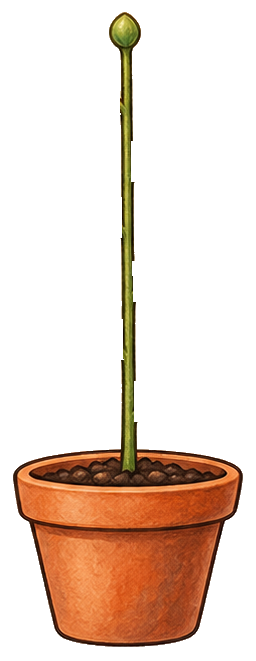
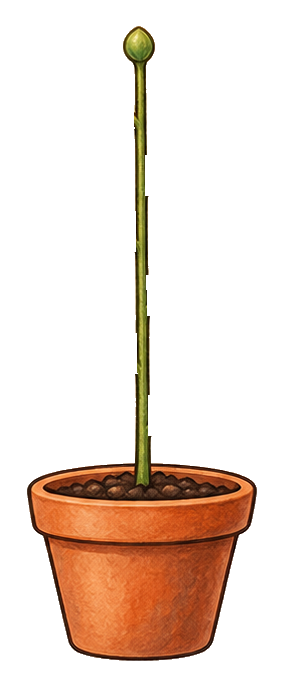
Plant: pre-rendered round borders, layered under all art
The live outline filter dilated with a square kernel (blocky fill
between leaves and stem) and its rounding pass thinned the border at
leaf tips. Instead:
- Each piece gets NAME-border.png: a smooth ~4px (on screen) cream
  border from a Euclidean distance transform, on the same padded canvas
  as its art.
- All borders render in one layer beneath all art, so at every joint
  each border tucks under the other's art and the outline merges into
  one clean die-cut shape. Both layers share motion props, so a leaf
  and its border grow together.

Changed region(s): [[0.0312, 0.0, 0.9688, 0.9985], [0.6562, 0.8775, 0.6875, 0.9077], [0.2812, 0.8472, 0.3125, 0.8775]]

diff --git a/src/components/PlantSticker/PlantSticker.jsx b/src/components/PlantSticker/PlantSticker.jsx
@@ -5,22 +5,30 @@ import discoveries from '../../data/discoveries';
 import './PlantSticker.css';
 
 // Art comes from one sticker sheet (public/plant/*.png), so every piece
-// shares a scale. All positions below are in base.png pixels.
+// shares a scale. All positions below are in base.png pixels (the original
+// cut, before padding).
 //
-// The pieces have had their own cream die-cut borders removed; one border
-// is drawn live around the whole plant instead (see the #plant-outline
-// filter), so leaves join the stem seamlessly as they grow.
-//
+// Each piece comes as a pair: NAME.png (art + its dark outline) and
+// NAME-border.png (a smooth cream die-cut border, pre-rendered ~4px on
+// screen). All borders are drawn in one layer underneath all art, so where
+// a leaf meets the stem each border tucks under the other's art and the
+// outline merges into one clean die-cut shape. Both images in a pair share
+// the same padded canvas (PADS), so they always line up.
+const PADS = {
+  base: 14, bud: 14, 'leaf-left-b': 27, 'leaf-left-a': 29, 'leaf-right-b': 27, 'leaf-right-a': 29,
+  'flower-bud': 31, 'flower-half': 26, 'flower-full': 22,
+};
+
 // The plant box adds room around base.png: on top for the flower, on the
-// sides for leaves that reach past the pot.
+// sides for leaves (and their borders) that reach past the pot.
 const BASE = { w: 256, h: 661 };
-const PAD = { top: 120, side: 34 };
-const BOX = { w: BASE.w + PAD.side * 2, h: BASE.h + PAD.top };
+const PAD = { top: 130, side: 44 };
+const BOX = { w: BASE.w + PAD.side * 2, h: BASE.h + PAD.top + 16 };
 const SCALE = 0.34; // rendered px per base.png px
 
 // Bud centers along the stem, bottom to top (alternating sides). Each one
 // is a discovery, in the order of data/discoveries.js. The buds were cut out
-// of base.png into bud-N.png (box = where that piece sits on base.png), so
+// of base.png into bud-N.png (box = where that piece sat on base.png), so
 // the bare stem can sprout a leaf in the bud's place.
 const NODES = [
   { x: 154, y: 397, side: 1, bud: { x: 134, y: 381, w: 36, h: 41 } },
@@ -33,16 +41,16 @@ const NODES = [
 // Stem center line on base.png (it leans very slightly to the right).
 const stemX = (y) => 124 + ((y - 30) * 5) / 410;
 
-// Leaf art, with (ax, ay) = the tip of the leaf's own stem, which is where it
-// attaches to the bud and grows from. Larger leaves go lower on the plant.
+// Leaf art (unpadded size), with (ax, ay) = the tip of the leaf's own stem,
+// where it attaches and grows from. Larger leaves go lower on the plant.
 const LEAVES = {
   left: [
-    { src: '/plant/leaf-left-b.png', w: 228, h: 140, ax: 212, ay: 110 },
-    { src: '/plant/leaf-left-a.png', w: 197, h: 113, ax: 182, ay: 85 },
+    { name: 'leaf-left-b', w: 228, h: 140, ax: 212, ay: 110 },
+    { name: 'leaf-left-a', w: 197, h: 113, ax: 182, ay: 85 },
   ],
   right: [
-    { src: '/plant/leaf-right-b.png', w: 243, h: 146, ax: 14, ay: 116 },
-    { src: '/plant/leaf-right-a.png', w: 200, h: 114, ax: 14, ay: 85 },
+    { name: 'leaf-right-b', w: 243, h: 146, ax: 14, ay: 116 },
+    { name: 'leaf-right-a', w: 200, h: 114, ax: 14, ay: 85 },
   ],
 };
 const leafFor = (i) => {
@@ -58,19 +66,35 @@ const leafRoot = (n) => ({ x: stemX(n.y) + n.side * 2, y: n.y + 8 });
 // stem just under the top bud of base.png.
 const FLOWER_AT = { x: 124, y: 64 };
 const FLOWER = [
-  { src: '/plant/flower-bud.png', w: 124, h: 208, ax: 62, ay: 194, scale: 0.42 },
-  { src: '/plant/flower-half.png', w: 186, h: 231, ax: 81, ay: 217, scale: 0.5 },
-  { src: '/plant/flower-full.png', w: 292, h: 261, ax: 135, ay: 248, scale: 0.6 },
+  { name: 'flower-bud', w: 124, h: 208, ax: 62, ay: 194, scale: 0.42 },
+  { name: 'flower-half', w: 186, h: 231, ax: 81, ay: 217, scale: 0.5 },
+  { name: 'flower-full', w: 292, h: 261, ax: 135, ay: 248, scale: 0.6 },
 ];
 const BLOOM_STEP_MS = 420;
 
-// Place an image so its anchor lands on (x, y) in base.png px.
-const placeAt = (art, x, y, scale) => ({
-  left: (PAD.side + x - art.ax * scale) * SCALE,
-  top: (PAD.top + y - art.ay * scale) * SCALE,
-  width: art.w * scale * SCALE,
-  height: art.h * scale * SCALE,
-  transformOrigin: `${(art.ax / art.w) * 100}% ${(art.ay / art.h) * 100}%`,
+const src = (name, layer) => `/plant/${name}${layer === 'border' ? '-border' : ''}.png`;
+
+// Place a padded piece so its anchor (in unpadded px) lands on (x, y).
+const placeAt = (art, x, y, scale) => {
+  const pad = PADS[art.name];
+  const w = art.w + pad * 2;
+  const h = art.h + pad * 2;
+  const ax = art.ax + pad;
+  const ay = art.ay + pad;
+  return {
+    left: (PAD.side + x - ax * scale) * SCALE,
+    top: (PAD.top + y - ay * scale) * SCALE,
+    width: w * scale * SCALE,
+    height: h * scale * SCALE,
+    transformOrigin: `${(ax / w) * 100}% ${(ay / h) * 100}%`,
+  };
+};
+// Place a padded piece that sat at (x, y) on base.png at full scale.
+const placeBox = (x, y, w, h, pad) => ({
+  left: (PAD.side + x - pad) * SCALE,
+  top: (PAD.top + y - pad) * SCALE,
+  width: (w + pad * 2) * SCALE,
+  height: (h + pad * 2) * SCALE,
 });
 const pct = (x, y) => ({
   left: `${((PAD.side + x) / BOX.w) * 100}%`,
@@ -124,6 +148,78 @@ export default function PlantSticker({ x, y, rotate, z, enterDelay, bringToFront
     return () => timers.forEach(clearTimeout);
   }, [bloomed]); // eslint-disable-line react-hooks/exhaustive-deps
 
+  // Every piece of the plant for one layer ('border' or 'art'). Both layers
+  // get identical motion props, so a leaf and its border grow as one.
+  const renderPieces = (layer) => (
+    <>
+      <img
+        className="plant-piece"
+        src={src('base', layer)}
+        alt=""
+        draggable="false"
+        style={placeBox(0, 0, BASE.w, BASE.h, PADS.base)}
+      />
+
+      {/* Buds — shrink back into the stem as their leaf grows */}
+      {NODES.map((n, i) => {
+        const isFound = found.includes(discoveries[i].id);
+        return (
+          <motion.img
+            key={`bud-${discoveries[i].id}`}
+            className="plant-piece"
+            src={src(`bud-${i + 1}`, layer)}
+            alt=""
+            draggable="false"
+            style={{
+              ...placeBox(n.bud.x, n.bud.y, n.bud.w, n.bud.h, PADS.bud),
+              transformOrigin: n.side > 0 ? '20% 65%' : '80% 65%', // stem side
+            }}
+            initial={false}
+            animate={{ scale: isFound ? 0 : 1, opacity: isFound ? 0 : 1 }}
+            transition={t({ duration: 0.25 })}
+          />
+        );
+      })}
+
+      {/* Leaves — each grows from the stem where its bud was, once found */}
+      {NODES.map((n, i) => {
+        const art = leafFor(i);
+        const isFound = found.includes(discoveries[i].id);
+        return (
+          <motion.img
+            key={discoveries[i].id}
+            className="plant-piece"
+            src={src(art.name, layer)}
+            alt=""
+            draggable="false"
+            style={placeAt(art, leafRoot(n).x, leafRoot(n).y, leafScale(i))}
+            initial={false}
+            animate={{ scale: isFound ? 1 : 0, rotate: isFound ? 0 : 40 * n.side }}
+            transition={t(spring)}
+          />
+        );
+      })}
+
+      {/* Flower opens over the top bud of base.png, covering it. */}
+      <AnimatePresence>
+        {stage >= 0 && (
+          <motion.img
+            key={stage}
+            className="plant-piece"
+            src={src(FLOWER[stage].name, layer)}
+            alt=""
+            draggable="false"
+            style={placeAt(FLOWER[stage], FLOWER_AT.x, FLOWER_AT.y, FLOWER[stage].scale)}
+            initial={reduceMotion ? false : { scale: stage === 0 ? 0 : 0.85, opacity: stage === 0 ? 1 : 0 }}
+            animate={{ scale: 1, opacity: 1 }}
+            exit={{ opacity: 0, transition: { duration: 0.18 } }}
+            transition={t(spring)}
+          />
+        )}
+      </AnimatePresence>
+    </>
+  );
+
   const activeItem = activeNode !== null ? discoveries[activeNode] : null;
   const activeFound = activeItem && found.includes(activeItem.id);
   const tipNode = activeNode !== null ? NODES[activeNode] : null;
@@ -141,95 +237,9 @@ export default function PlantSticker({ x, y, rotate, z, enterDelay, bringToFront
       label={`Little plant: ${found.length} of ${discoveries.length} leaves grown${bloomed ? ', in full bloom' : ''}`}
     >
       <div className="plant" ref={scope} style={{ width: BOX.w * SCALE, height: BOX.h * SCALE }}>
-        {/* One die-cut border around the combined silhouette: grow the
-            alpha, round it off, fill it cream, and lay the art on top. */}
-        <svg className="plant-defs" aria-hidden="true" focusable="false">
-          <filter id="plant-outline" x="-15%" y="-15%" width="130%" height="130%" colorInterpolationFilters="sRGB">
-            <feMorphology in="SourceAlpha" operator="dilate" radius="3.5" result="grown" />
-            <feGaussianBlur in="grown" stdDeviation="1.2" result="soft" />
-            <feComponentTransfer in="soft" result="rounded">
-              <feFuncA type="linear" slope="3" intercept="-0.6" />
-            </feComponentTransfer>
-            <feFlood floodColor="#f4f1ea" />
-            <feComposite in2="rounded" operator="in" result="border" />
-            <feMerge>
-              <feMergeNode in="border" />
-              <feMergeNode in="SourceGraphic" />
-            </feMerge>
-          </filter>
-        </svg>
-
-        <div className="plant-art">
-        <img
-          className="plant-piece"
-          src="/plant/base.png"
-          alt=""
-          draggable="false"
-          style={{ left: PAD.side * SCALE, top: PAD.top * SCALE, width: BASE.w * SCALE, height: BASE.h * SCALE }}
-        />
-
-        {/* Buds — shrink back into the stem as their leaf grows */}
-        {NODES.map((n, i) => {
-          const isFound = found.includes(discoveries[i].id);
-          return (
-            <motion.img
-              key={`bud-${discoveries[i].id}`}
-              className="plant-piece"
-              src={`/plant/bud-${i + 1}.png`}
-              alt=""
-              draggable="false"
-              style={{
-                left: (PAD.side + n.bud.x) * SCALE,
-                top: (PAD.top + n.bud.y) * SCALE,
-                width: n.bud.w * SCALE,
-                height: n.bud.h * SCALE,
-                transformOrigin: n.side > 0 ? '0% 70%' : '100% 70%', // stem side
-              }}
-              initial={false}
-              animate={{ scale: isFound ? 0 : 1, opacity: isFound ? 0 : 1 }}
-              transition={t({ duration: 0.25 })}
-            />
-          );
-        })}
-
-        {/* Leaves — each grows from the stem where its bud was, once found */}
-        {NODES.map((n, i) => {
-          const art = leafFor(i);
-          const isFound = found.includes(discoveries[i].id);
-          return (
-            <motion.img
-              key={discoveries[i].id}
-              className="plant-piece"
-              src={art.src}
-              alt=""
-              draggable="false"
-              style={placeAt(art, leafRoot(n).x, leafRoot(n).y, leafScale(i))}
-              initial={false}
-              animate={{ scale: isFound ? 1 : 0, rotate: isFound ? 0 : 40 * n.side }}
-              transition={t(spring)}
-            />
-          );
-        })}
-
-        {/* Flower opens over the top bud of base.png, covering it. */}
-        <AnimatePresence>
-          {stage >= 0 && (
-            <motion.img
-              key={stage}
-              className="plant-piece"
-              src={FLOWER[stage].src}
-              alt=""
-              draggable="false"
-              style={placeAt(FLOWER[stage], FLOWER_AT.x, FLOWER_AT.y, FLOWER[stage].scale)}
-              initial={reduceMotion ? false : { scale: stage === 0 ? 0 : 0.85, opacity: stage === 0 ? 1 : 0 }}
-              animate={{ scale: 1, opacity: 1 }}
-              exit={{ opacity: 0, transition: { duration: 0.18 } }}
-              transition={t(spring)}
-            />
-          )}
-        </AnimatePresence>
-
-        </div>
+        {/* Borders first, art on top: see PADS above. */}
+        <div className="plant-layer">{renderPieces('border')}</div>
+        <div className="plant-layer">{renderPieces('art')}</div>
 
         {/* Hit targets + hints. Real buttons so keyboard and screen-reader
             users can read the hints too. */}

diff --git a/src/components/PlantSticker/PlantSticker.css b/src/components/PlantSticker/PlantSticker.css
@@ -3,18 +3,10 @@
   transform-origin: 50% 95%; /* wiggles from the pot, like it's rooted */
 }
 
-/* All art pieces share one live die-cut border (filter defined inline in
-   PlantSticker.jsx), so leaves and flower join the stem seamlessly. */
-.plant-art {
+/* Two stacked layers: every piece's border, then every piece's art. */
+.plant-layer {
   position: absolute;
   inset: 0;
-  filter: url(#plant-outline);
-}
-.plant-defs {
-  position: absolute;
-  width: 0;
-  height: 0;
-  overflow: hidden;
 }
 
 /* Every piece of sticker-sheet art is absolutely placed in base.png px
